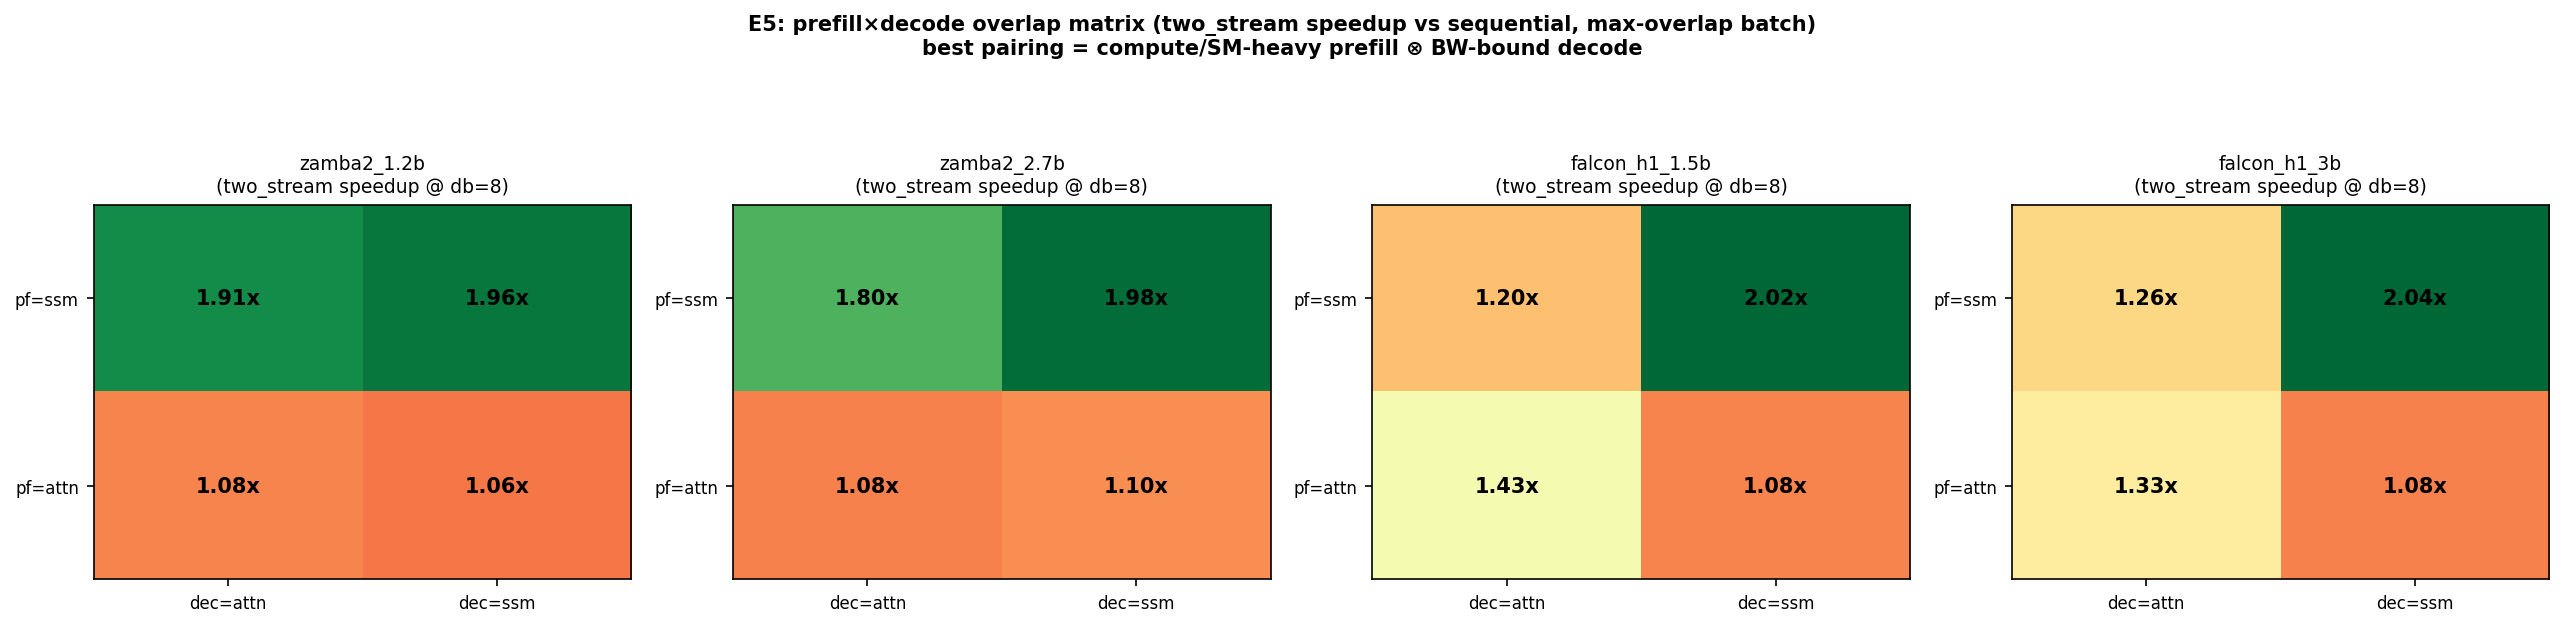
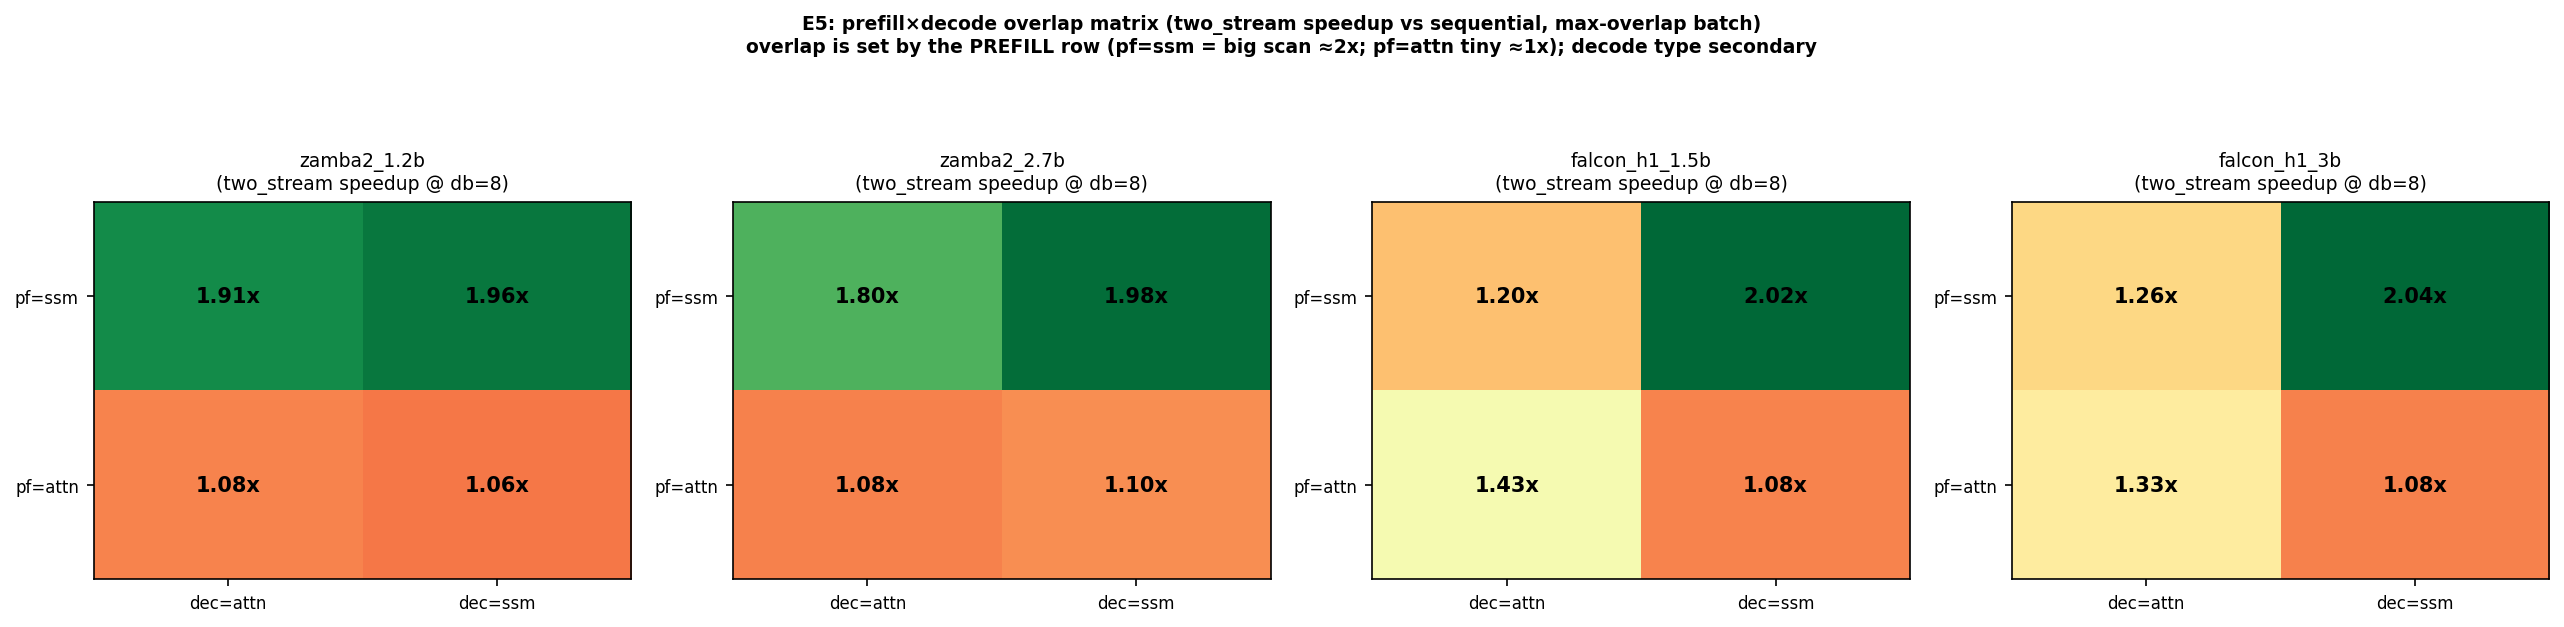
E5 matrix interpretation: overlap driven by prefill size; partition useless in all cells
Full 2x2xbatchxcontext (1576 ok): two_stream overlap up to ~2x but set by the
PREFILL row (pf=ssm big scan ~1.8-2.0x; pf=attn tiny ~1.1-1.4x), decode type
secondary. dec=ssm overlap flat ~2.0x across context (state BW const); dec=attn
peaks then decays as long-context decode dominates the wall. Spatial Green Context
NEVER beats two_stream in ANY cell/batch/context (max two/green=0.987-0.996).
Adds e5_context_dependence figure; fixes matrix caption to match data.

diff --git a/workspace/characterization/experiments/viz/plot_results.py b/workspace/characterization/experiments/viz/plot_results.py
@@ -464,8 +464,9 @@ def plot_e5(rdir, out):
                         fontsize=10, fontweight="bold")
         ax.set_title(f"{m}\n(two_stream speedup @ db={bmin})", fontsize=9)
     fig.suptitle("E5: prefill×decode overlap matrix (two_stream speedup vs sequential, max-overlap batch)\n"
-                 "best pairing = compute/SM-heavy prefill ⊗ BW-bound decode",
-                 fontweight="bold", fontsize=10)
+                 "overlap is set by the PREFILL row (pf=ssm = big scan ≈2x; pf=attn tiny ≈1x); "
+                 "decode type secondary",
+                 fontweight="bold", fontsize=9)
     fig.tight_layout(rect=[0, 0, 1, 0.90])
     _save(fig, out, "e5_overlap_matrix.png")
 
@@ -517,6 +518,29 @@ def plot_e5(rdir, out):
                  "(if even the best cell is ≤1, Green Context never beats naive co-scheduling)")
     ax.legend(fontsize=8); ax.grid(True, alpha=0.3)
     _save(fig, out, "e5_spatial_specific_gain.png")
+
+    # (D) context dependence (pf=ssm): attn-decode BW∝context vs ssm-decode const
+    if len(ctxs) > 1:
+        fig, ax = plt.subplots(figsize=(7.5, 4.8))
+        for m in models:
+            sm = df[df.model == m]
+            for dl, style in [("attn", "o-"), ("ssm", "s--")]:
+                ys = []
+                for c in ctxs:
+                    r = sm[(sm.prefill_layer == "ssm") & (sm.decode_layer == dl)
+                           & (sm.decode_batch == 8) & (sm.context_len == c)
+                           & (sm.backend == "two_stream")]
+                    ys.append(float(r.speedup_vs_seq.iloc[0]) if len(r) else np.nan)
+                ax.plot(ctxs, ys, style, color=MODEL_COLOR[m],
+                        alpha=0.9 if dl == "attn" else 0.55,
+                        label=f"{m} dec={dl}")
+        ax.axhline(1.0, color="k", ls=":", lw=1)
+        ax.set_xscale("log", base=2)
+        ax.set_xlabel("decode context length"); ax.set_ylabel("two_stream speedup (pf=ssm, db=8)")
+        ax.set_title("E5: overlap vs decode context (pf=ssm)\n"
+                     "dec=ssm flat (state BW const); dec=attn peaks then decays as decode dominates")
+        ax.legend(fontsize=7, ncol=2); ax.grid(True, which="both", alpha=0.3)
+        _save(fig, out, "e5_context_dependence.png")
 
 
 # ---------------------------------------------------------------------------
